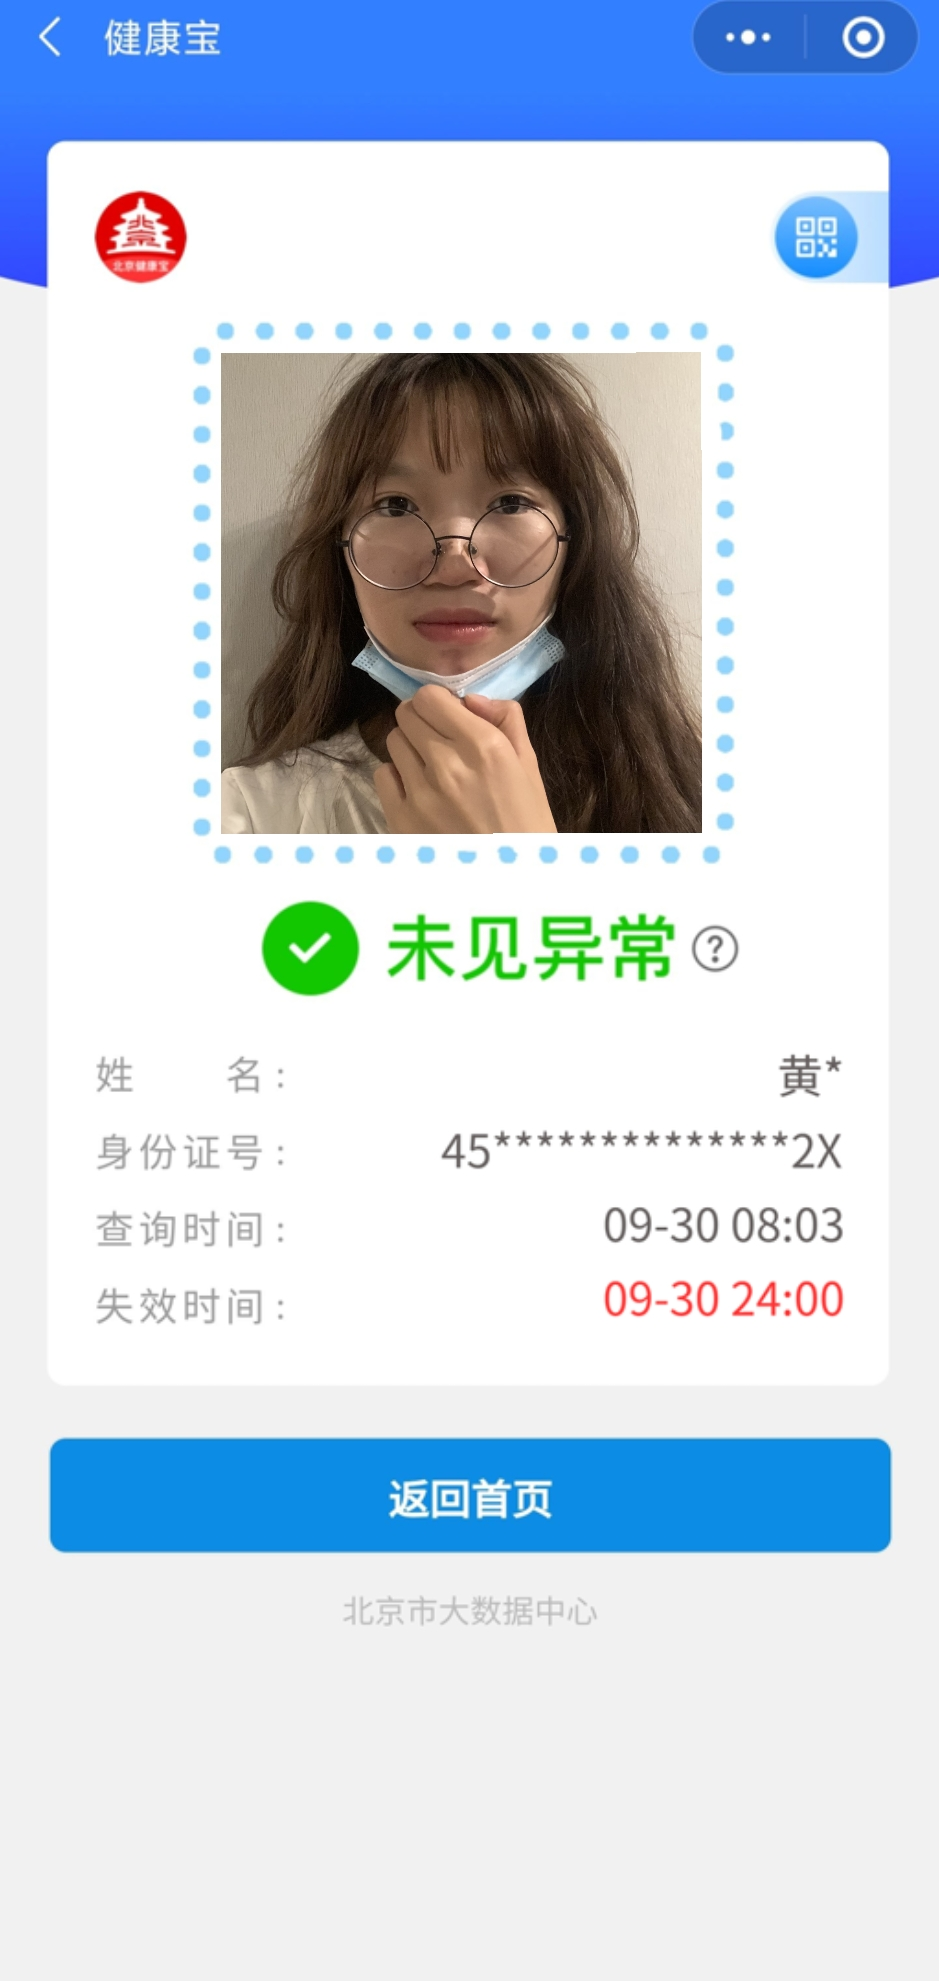
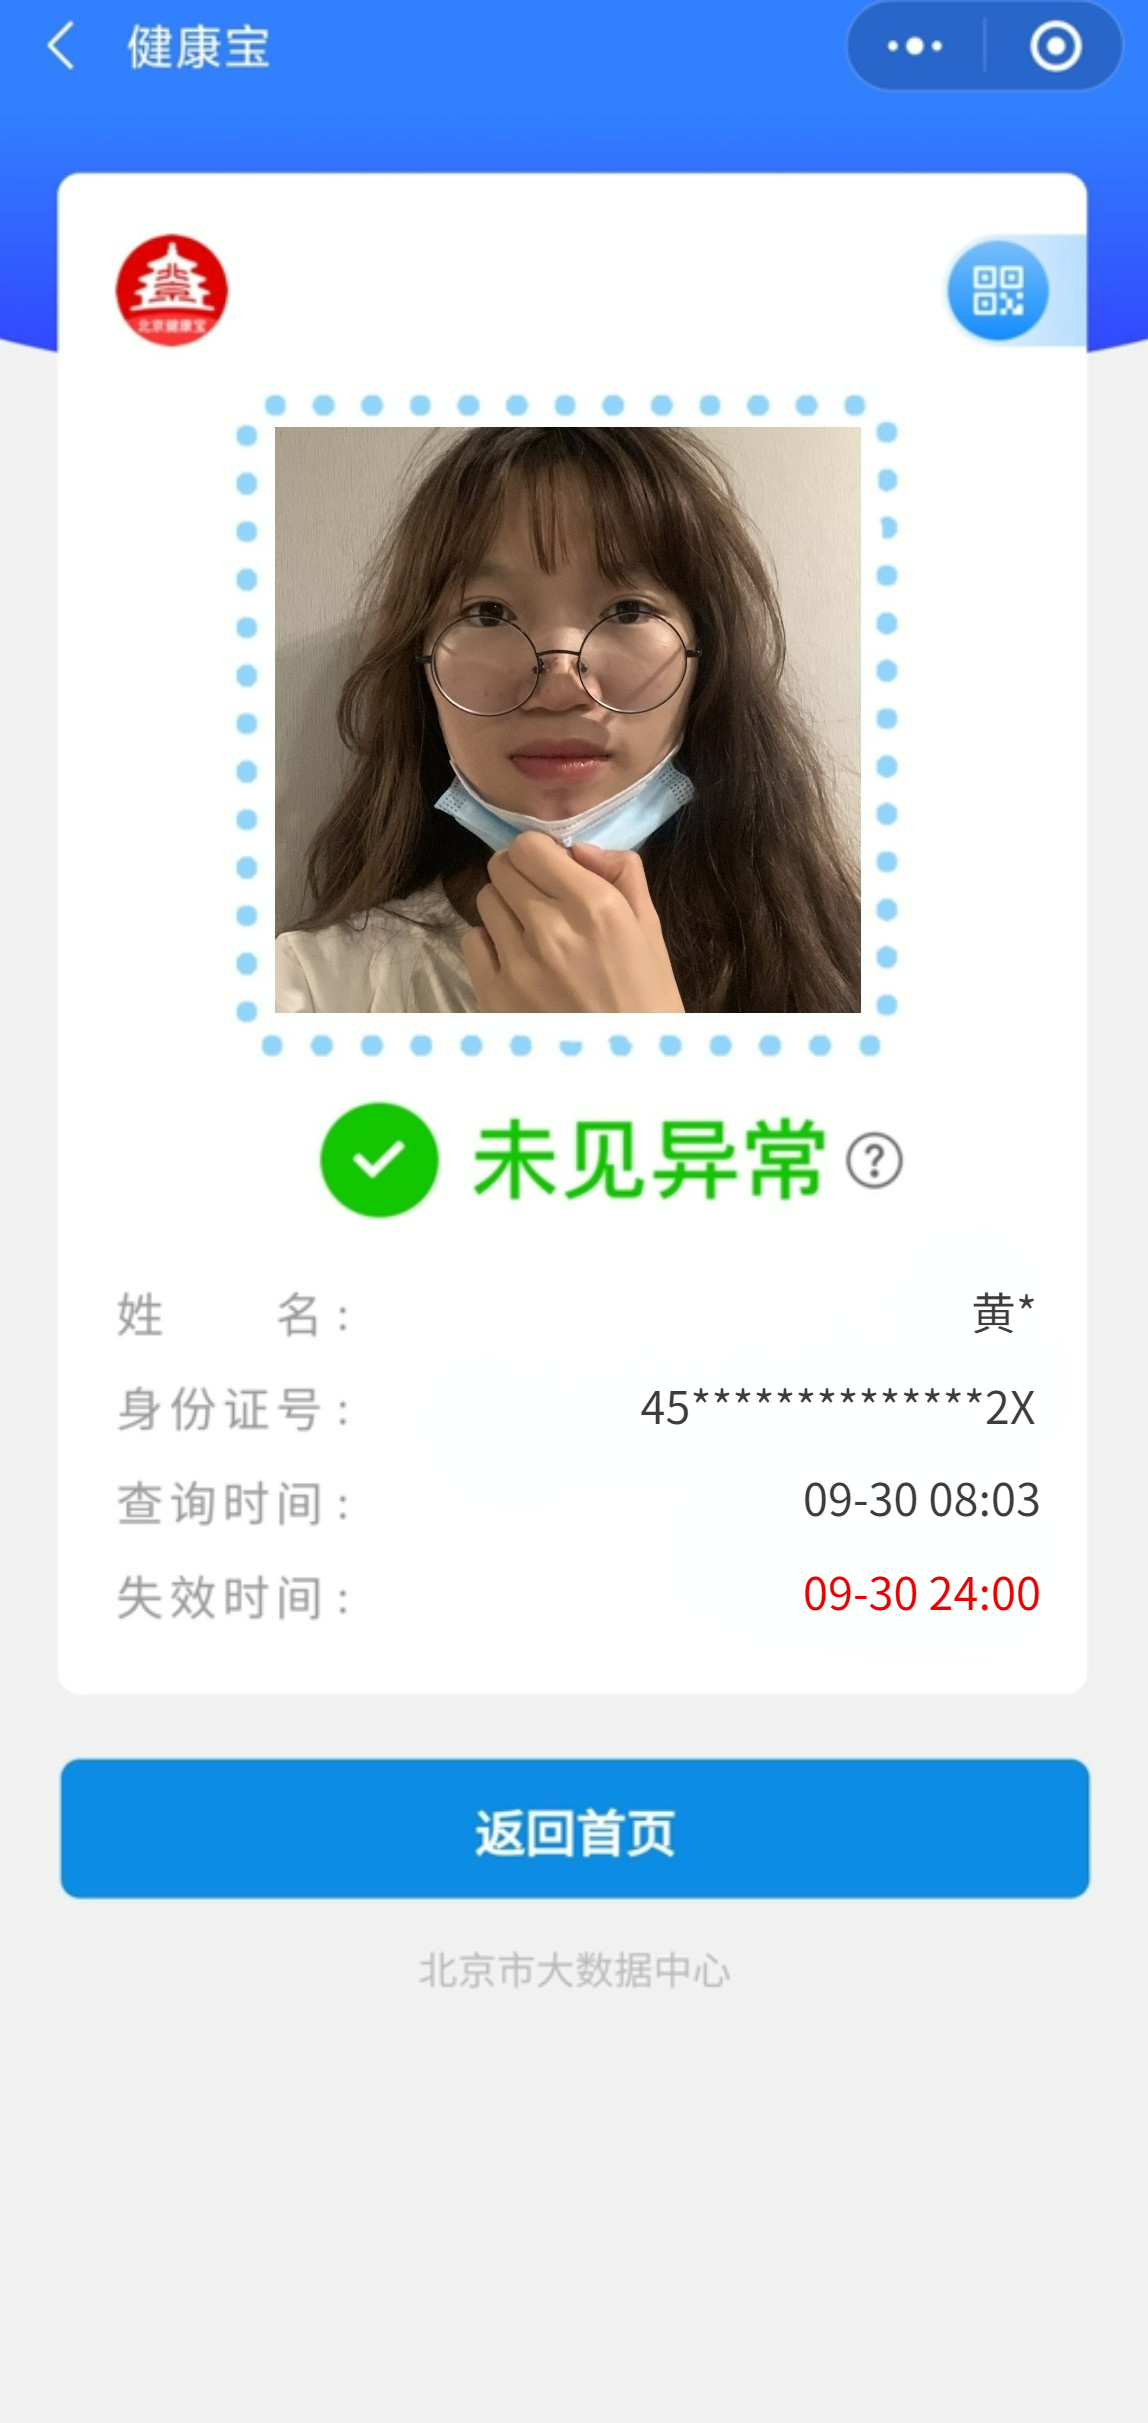
'210930'

diff --git a/md/index.html b/md/index.html
@@ -1,41 +1,47 @@
 <!DOCTYPE html>
 <html>
-	<head>
-		<meta charset="utf-8" />
-		<title></title>
-		<style>
-            * {
-                margin: 0 !important;
-            }
-			img {
-				width: 100vw;
-				height: 100vh;
-                float: left;
-			}
-            .day1 {
-                font-size: 4vw;
-                top: 10vh;
-                color: rgb(104, 104, 104);
-            }
-            .day2 {
-                font-size: 4vw;
-                top: 12vh;
-                color: rgb(104, 104, 104);
-            }
-		</style>
-		
-	</head>
-	<body>
-        <div style="display: flex; align-items: center; flex-direction: column;">
-            <div class="day1" style="position: absolute;">2021年09月30日</div>
-        </div>
-        <div style="display: flex; align-items: center; flex-direction: column;">
-            <div id="nowDate" class="day2" style="position: absolute;"></div>
-        </div>
-		<img id="img1" src="" alt="" class="img"/>
-        
-        <div></div>
-	</body>
+
+<head>
+    <meta charset="utf-8" />
+    <title></title>
+    <style>
+        * {
+            margin: 0 !important;
+        }
+
+        img {
+            width: 100vw;
+            height: 100.2vh;
+            float: left;
+        }
+
+        .day1 {
+            font-size: 4vw;
+            top: 40vh;
+            color: rgb(104, 104, 104);
+        }
+
+        .day2 {
+            font-size: 4vw;
+            top: 43vh;
+            color: rgb(104, 104, 104);
+        }
+    </style>
+
+</head>
+
+<body>
+    <div style="height: 30vh; background-color:  white; margin: 0;"></div>
+    <div style="display: flex; align-items: center; flex-direction: column;">
+        <div class="day1" style="position: absolute;">2021年09月30日</div>
+    </div>
+    <div style="display: flex; align-items: center; flex-direction: column;">
+        <div id="nowDate" class="day2" style="position: absolute;"></div>
+    </div>
+    <img id="img1" src="" alt="" class="img" />
+
+    <div></div>
+</body>
 
 </html>
 
@@ -58,5 +64,5 @@
             document.getElementById('nowDate').innerHTML = res;
         }, 300)
     })()
-    
+
 </script>
